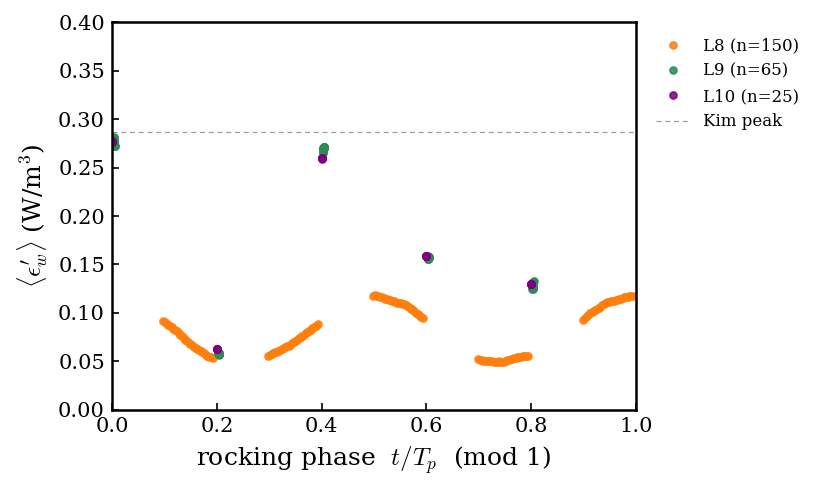
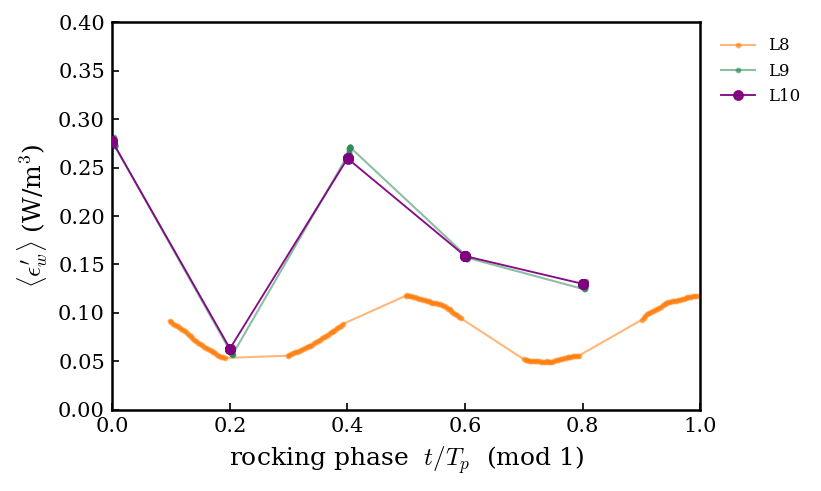
style(fig8): size marks by sample density; drop n= and the peak rule
What looked like a "thick dashed line" on panels a1/a2 was not a reference
line at all -- it was L8's scatter. These three runs predate the off-period
frame cadence and differ wildly in phase coverage:

  L8   spacing 0.2006 T_p  -> 150 distinct phases
  L9   spacing 0.2000 T_p  ->  16
  L10  spacing 0.2000 T_p  ->   5

L8's spacing is very slightly OFF commensurate, so its sampling phase creeps
~0.0006 per cycle and 150 frames fill in around each of the 5 base phases,
clumping into drifting arcs that read as a heavy dashed rule. L9 and L10 are
exactly commensurate and pin to a handful of phases however long they run.

So L8 is the only series here with real phase coverage, not the messy one.
Marks now follow density: dense series as a fine curve (ms 1.8, alpha 0.55),
sparse series as distinct markers (ms 4.2). Legend no longer carries the
frame count -- provenance, not physics.

Kim's peak rule is removed from these panels. His Fig 8(a) is a TIME SERIES
we do not have as data: Figures/Fig_tau_Ediss.pdf embeds the panel as a
raster image (one 2.7 MB image stream, zero vector path operators) and his
published dataset carries only the single peak value. Drawing that lone
number as a rule across a phase axis gave it a false x-independence next to
every other mark. It can return as markers-plus-line once the curve is
pixel-digitised.

The cadence itself is already fixed upstream (T_p/(N+0.618), params_read.h);
any rerun fills phase uniformly and the arcs disappear.
[…]

diff --git a/scripts/plot_fig8.py b/scripts/plot_fig8.py
@@ -122,18 +122,32 @@ for lvl, run, col in RUNS:
 
 def phase_panel(key, fname, ylabel, ylim, kim_peak, symmetric):
     fig, ax = plt.subplots(figsize=(5.6, 3.4))
+    # Mark size and line weight follow the SAMPLE DENSITY, because these runs
+    # predate the off-period frame cadence and so differ wildly in it:
+    # L8's frame spacing is 0.2006 T_p (slightly OFF commensurate), so its
+    # phase creeps ~0.0006/cycle and 150 frames fill in 150 distinct phases --
+    # it genuinely traces the curve. L9 (0.2000) pins to 16 phases and L10 to
+    # just 5, however long they run. Drawn at one size, L8's 150 markers
+    # clumped into drifting arcs and read as a heavy dashed rule rather than
+    # as the densest, most informative series on the panel.
     for lvl, _, col in RUNS:
         d = series[lvl]
-        ax.plot(d["phase"], d[key], color=col, lw=0, marker="o", ms=3.2,
-                alpha=0.85, label=f"{lvl} (n={d['n']})")
-    # Kim's peak as a quiet reference, not a feature: hairline, light grey,
-    # fine dashes, behind the data. At lw=1.0 in "0.25" it read as a heavy
-    # dashed rule across a small panel -- and in a1, drawn at +/-peak, as two
-    # of them competing with the curve the panel is actually about.
-    for y in ((kim_peak, -kim_peak) if symmetric else (kim_peak,)):
-        ax.axhline(y, color="0.62", lw=0.6, ls=(0, (4, 3)), zorder=0)
-    # one legend entry for the pair, via a proxy handle
-    ax.plot([], [], color="0.62", lw=0.6, ls=(0, (4, 3)), label="Kim peak")
+        dense = d["n"] > 60
+        ax.plot(d["phase"], d[key], color=col,
+                lw=1.0 if dense else 0.9,
+                marker="o", ms=1.8 if dense else 4.2,
+                alpha=0.55 if dense else 0.95, label=lvl, zorder=2 if dense else 3)
+    # NO Kim series on this panel, and no horizontal reference line either.
+    #
+    # Kim's Fig 8(a) is a TIME SERIES over the rocking phase, but we do not
+    # have it as data: Figures/Fig_tau_Ediss.pdf embeds the panel as a RASTER
+    # image (one 2.7 MB image stream, zero vector path operators), and his
+    # published dataset carries only the single PEAK value, not the curve.
+    # Plotting that lone number as a rule across the panel was a poor stand-in
+    # for a series -- it read as a heavy dashed line with no x-dependence,
+    # unlike every other mark here. Kim's peak belongs in the caption until
+    # the curve is pixel-digitised; then it can be drawn as markers joined by
+    # a line, exactly like ours.
     ax.set_xlabel(r"rocking phase  $t/T_p$  (mod 1)", fontsize=12)
     ax.set_ylabel(ylabel, fontsize=12)
     ax.set_xlim(0, 1)
